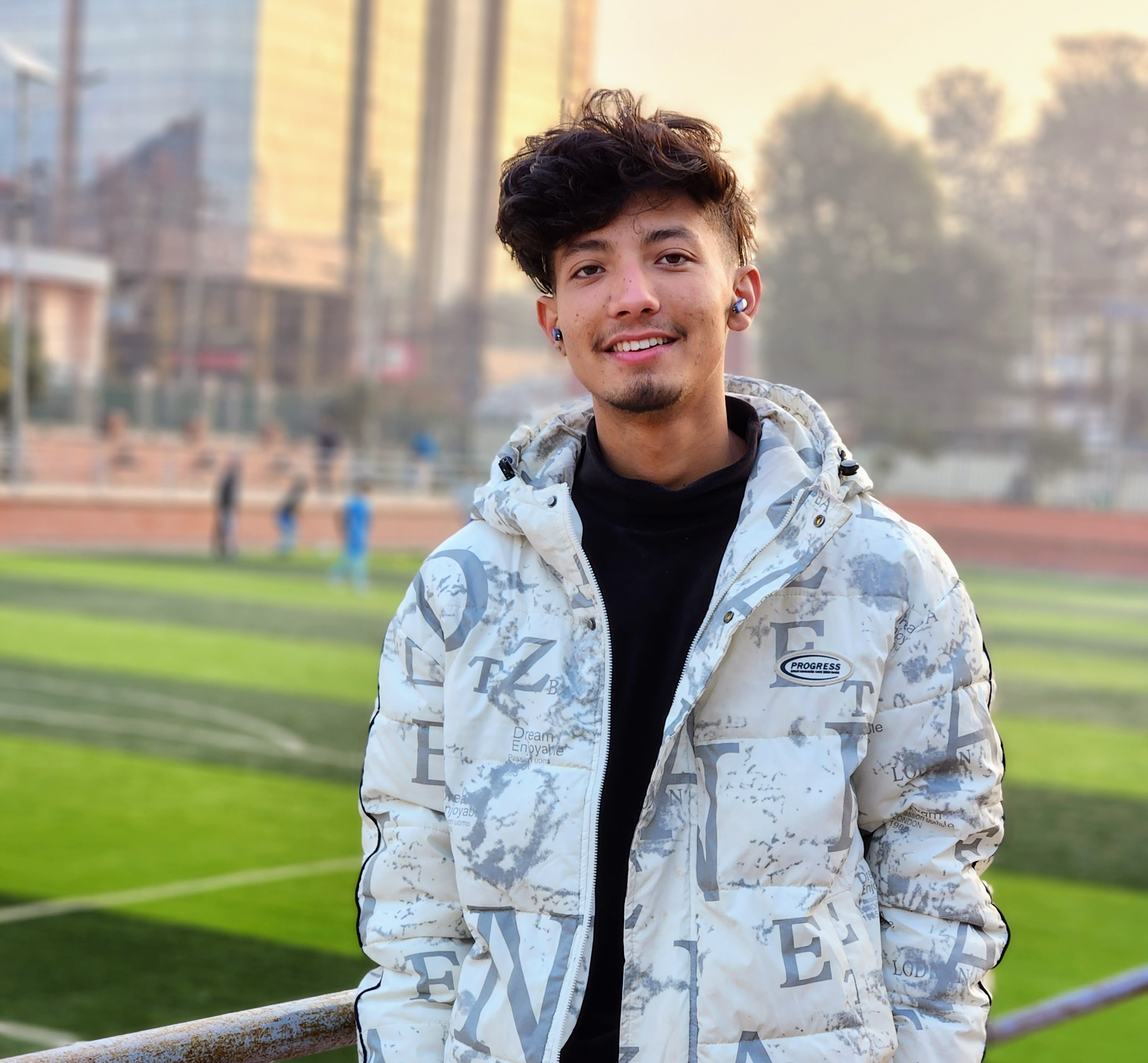
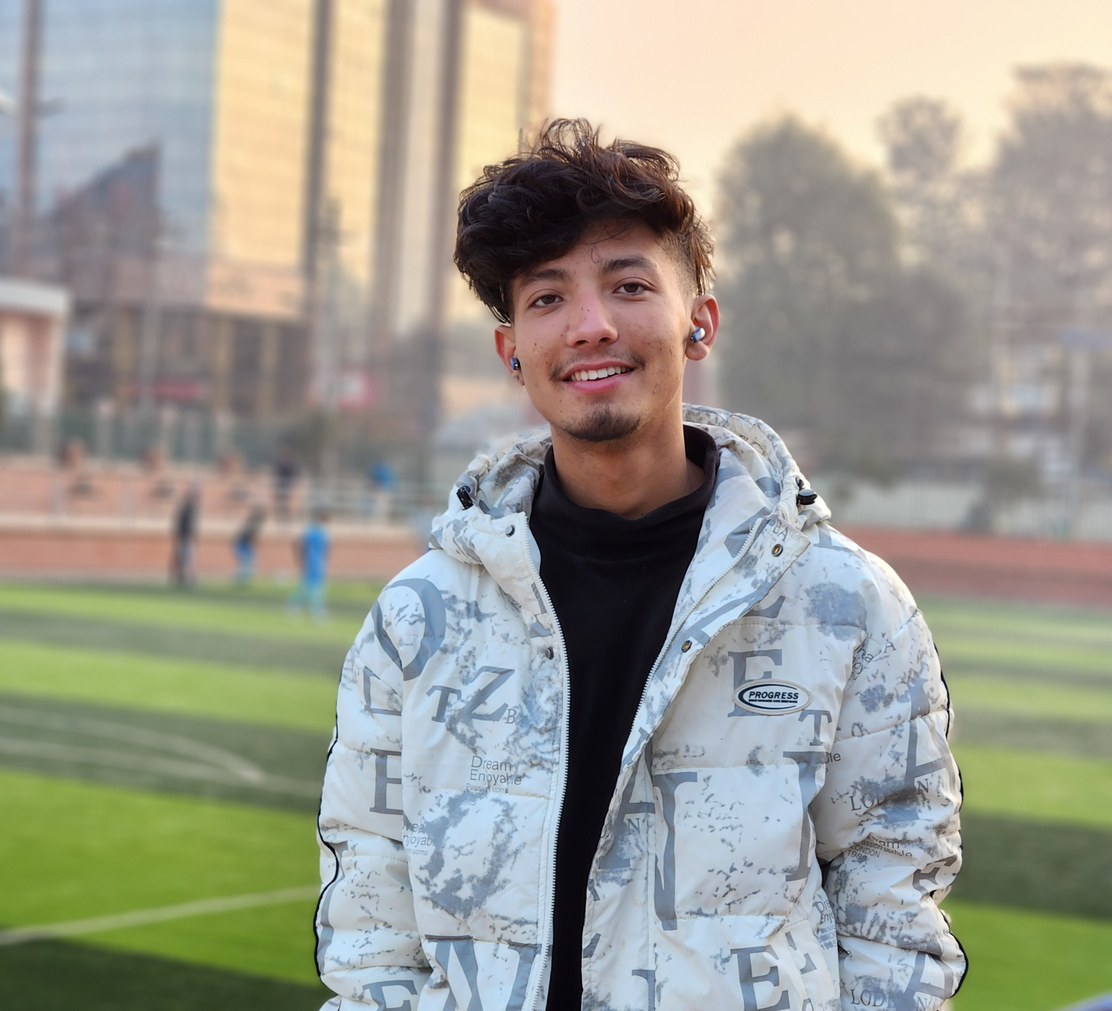
About me page

diff --git a/app/about-me/page.tsx b/app/about-me/page.tsx
@@ -2,29 +2,61 @@
 import './about.css';
 import 'tailwindcss/tailwind.css';
 import React from 'react';
+
 import Image from 'next/image';
 import Link from 'next/link';
 export default function AboutMe() {
     return (
         <div className="container flex items-center w-5/6 mx-auto py-4 px-2 rounded-2xl shadow-xl border border-gray-300 flex-col my-auto mt-14">
-            <div className='border-4 border-gray-500 w-fit h-fit rounded-full overflow-hidden'><Image src={'/about.jpg'} width={150} height={150} alt='about-me-image'></Image></div>
-            <div className='p-2 font-semibold tracking-wide text-3xl border-b-2 border-gray-400 text-orange-600 '>Sudeep Bogati</div>
-            <p className='w-4/5 w-full px-2 py-4 '> Hello, This is Sudeep Bogati,a passionate<span className='border-b font-medium border-orange-600'>Software Engineer </span> from Nepal, passionate about using technology to solve problems and create innovative solutions. I'm skilled in applying my engineering knowledge to design, develop, and maintain software applications. With a strong foundation in TypeScript,NEXT.js, NODE.js , I'm eager to contribute to projects that make a positive impact.</p>
-            <div className="flex gap-4 bg-gray-400 rounded-2xl px-4 py-2 my-4">
-                <Link href={'/'}><svg xmlns="http://www.w3.org/2000/svg" width="16" height="16" fill="currentColor" className="bi bi-github" viewBox="0 0 16 16">
-                    <path d="M8 0C3.58 0 0 3.58 0 8c0 3.54 2.29 6.53 5.47 7.59.4.07.55-.17.55-.38 0-.19-.01-.82-.01-1.49-2.01.37-2.53-.49-2.69-.94-.09-.23-.48-.94-.82-1.13-.28-.15-.68-.52-.01-.53.63-.01 1.08.58 1.23.82.72 1.21 1.87.87 2.33.66.07-.52.28-.87.51-1.07-1.78-.2-3.64-.89-3.64-3.95 0-.87.31-1.59.82-2.15-.08-.2-.36-1.02.08-2.12 0 0 .67-.21 2.2.82.64-.18 1.32-.27 2-.27.68 0 1.36.09 2 .27 1.53-1.04 2.2-.82 2.2-.82.44 1.1.16 1.92.08 2.12.51.56.82 1.27.82 2.15 0 3.07-1.87 3.75-3.65 3.95.29.25.54.73.54 1.48 0 1.07-.01 1.93-.01 2.2 0 .21.15.46.55.38A8.012 8.012 0 0 0 16 8c0-4.42-3.58-8-8-8z"></path>
-                </svg></Link>
-                <a href=""><svg xmlns="http://www.w3.org/2000/svg" width="16" height="16" fill="currentColor" className="bi bi-twitter" viewBox="0 0 16 16">
-                    <path d="M5.026 15c6.038 0 9.341-5.003 9.341-9.334 0-.14 0-.282-.006-.422A6.685 6.685 0 0 0 16 3.542a6.658 6.658 0 0 1-1.889.518 3.301 3.301 0 0 0 1.447-1.817 6.533 6.533 0 0 1-2.087.793A3.286 3.286 0 0 0 7.875 6.03a9.325 9.325 0 0 1-6.767-3.429 3.289 3.289 0 0 0 1.018 4.382A3.323 3.323 0 0 1 .64 6.575v.045a3.288 3.288 0 0 0 2.632 3.218 3.203 3.203 0 0 1-.865.115 3.23 3.23 0 0 1-.614-.057 3.283 3.283 0 0 0 3.067 2.277A6.588 6.588 0 0 1 .78 13.58a6.32 6.32 0 0 1-.78-.045A9.344 9.344 0 0 0 5.026 15z"></path>
-                </svg></a>
-                <a href=""><svg xmlns="http://www.w3.org/2000/svg" width="16" height="16" fill="currentColor" className="bi bi-instagram" viewBox="0 0 16 16">
-                    <path d="M8 0C5.829 0 5.556.01 4.703.048 3.85.088 3.269.222 2.76.42a3.917 3.917 0 0 0-1.417.923A3.927 3.927 0 0 0 .42 2.76C.222 3.268.087 3.85.048 4.7.01 5.555 0 5.827 0 8.001c0 2.172.01 2.444.048 3.297.04.852.174 1.433.372 1.942.205.526.478.972.923 1.417.444.445.89.719 1.416.923.51.198 1.09.333 1.942.372C5.555 15.99 5.827 16 8 16s2.444-.01 3.298-.048c.851-.04 1.434-.174 1.943-.372a3.916 3.916 0 0 0 1.416-.923c.445-.445.718-.891.923-1.417.197-.509.332-1.09.372-1.942C15.99 10.445 16 10.173 16 8s-.01-2.445-.048-3.299c-.04-.851-.175-1.433-.372-1.941a3.926 3.926 0 0 0-.923-1.417A3.911 3.911 0 0 0 13.24.42c-.51-.198-1.092-.333-1.943-.372C10.443.01 10.172 0 7.998 0h.003zm-.717 1.442h.718c2.136 0 2.389.007 3.232.046.78.035 1.204.166 1.486.275.373.145.64.319.92.599.28.28.453.546.598.92.11.281.24.705.275 1.485.039.843.047 1.096.047 3.231s-.008 2.389-.047 3.232c-.035.78-.166 1.203-.275 1.485a2.47 2.47 0 0 1-.599.919c-.28.28-.546.453-.92.598-.28.11-.704.24-1.485.276-.843.038-1.096.047-3.232.047s-2.39-.009-3.233-.047c-.78-.036-1.203-.166-1.485-.276a2.478 2.478 0 0 1-.92-.598 2.48 2.48 0 0 1-.6-.92c-.109-.281-.24-.705-.275-1.485-.038-.843-.046-1.096-.046-3.233 0-2.136.008-2.388.046-3.231.036-.78.166-1.204.276-1.486.145-.373.319-.64.599-.92.28-.28.546-.453.92-.598.282-.11.705-.24 1.485-.276.738-.034 1.024-.044 2.515-.045v.002zm4.988 1.328a.96.96 0 1 0 0 1.92.96.96 0 0 0 0-1.92zm-4.27 1.122a4.109 4.109 0 1 0 0 8.217 4.109 4.109 0 0 0 0-8.217zm0 1.441a2.667 2.667 0 1 1 0 5.334 2.667 2.667 0 0 1 0-5.334z"></path>
-                </svg></a>
-                <a href=""><svg xmlns="http://www.w3.org/2000/svg" width="16" height="16" fill="currentColor" className="bi bi-youtube" viewBox="0 0 16 16">
-                    <path d="M8.051 1.999h.089c.822.003 4.987.033 6.11.335a2.01 2.01 0 0 1 1.415 1.42c.101.38.172.883.22 1.402l.01.104.022.26.008.104c.065.914.073 1.77.074 1.957v.075c-.001.194-.01 1.108-.082 2.06l-.008.105-.009.104c-.05.572-.124 1.14-.235 1.558a2.007 2.007 0 0 1-1.415 1.42c-1.16.312-5.569.334-6.18.335h-.142c-.309 0-1.587-.006-2.927-.052l-.17-.006-.087-.004-.171-.007-.171-.007c-1.11-.049-2.167-.128-2.654-.26a2.007 2.007 0 0 1-1.415-1.419c-.111-.417-.185-.986-.235-1.558L.09 9.82l-.008-.104A31.4 31.4 0 0 1 0 7.68v-.123c.002-.215.01-.958.064-1.778l.007-.103.003-.052.008-.104.022-.26.01-.104c.048-.519.119-1.023.22-1.402a2.007 2.007 0 0 1 1.415-1.42c.487-.13 1.544-.21 2.654-.26l.17-.007.172-.006.086-.003.171-.007A99.788 99.788 0 0 1 7.858 2h.193zM6.4 5.209v4.818l4.157-2.408L6.4 5.209z"></path>
-                </svg></a>
+            <div className='border-4 border-gray-500 w-fit h-fit rounded-full overflow-hidden'><Image src={'/about.jpg'} width={150} height={150} alt='about-me-image' style={{ objectFit: 'cover' }}></Image></div>
+            <div className='pt-2 font-semibold tracking-wide text-3xl border-b-2 border-gray-400 text-orange-600 '>Sudeep Bogati</div>
+            <p className='w-4/5 w-full text-base px-2 py-4 tracking-wide'> Hello, This is Sudeep Bogati,a passionate<span className='border-b font-medium border-orange-600'>Software Engineer </span> from Nepal, passionate about using technology to solve problems and create innovative solutions. I'm skilled in applying my engineering knowledge to design, develop, and maintain software applications. With a strong foundation in TypeScript,NEXT.js, NODE.js , I'm eager to contribute to projects that make a positive impact.</p>
+            <div className="social-buttons">
+                <Link href="https://github.com/sudeepbogati7" className="social-button github">
+                    <svg className="cf-icon-svg" xmlns="http://www.w3.org/2000/svg" viewBox="-2.5 0 19 19"><path d="M9.464 17.178a4.506 4.506 0 0 1-2.013.317 4.29 4.29 0 0 1-2.007-.317.746.746 0 0 1-.277-.587c0-.22-.008-.798-.012-1.567-2.564.557-3.105-1.236-3.105-1.236a2.44 2.44 0 0 0-1.024-1.348c-.836-.572.063-.56.063-.56a1.937 1.937 0 0 1 1.412.95 1.962 1.962 0 0 0 2.682.765 1.971 1.971 0 0 1 .586-1.233c-2.046-.232-4.198-1.023-4.198-4.554a3.566 3.566 0 0 1 .948-2.474 3.313 3.313 0 0 1 .091-2.438s.773-.248 2.534.945a8.727 8.727 0 0 1 4.615 0c1.76-1.193 2.532-.945 2.532-.945a3.31 3.31 0 0 1 .092 2.438 3.562 3.562 0 0 1 .947 2.474c0 3.54-2.155 4.32-4.208 4.548a2.195 2.195 0 0 1 .625 1.706c0 1.232-.011 2.227-.011 2.529a.694.694 0 0 1-.272.587z"></path></svg>
+                </Link>
+                <Link href="https://linkedin.com/in/sudeep-bogati" className="social-button linkedin">
+                    <svg viewBox="0 -2 44 44" version="1.1" xmlns="http://www.w3.org/2000/svg">
+                        <g id="Icons" stroke="none" stroke-width="1">
+                            <g transform="translate(-702.000000, -265.000000)">
+                                <path d="M746,305 L736.2754,305 L736.2754,290.9384 C736.2754,287.257796 734.754233,284.74515 731.409219,284.74515 C728.850659,284.74515 727.427799,286.440738 726.765522,288.074854 C726.517168,288.661395 726.555974,289.478453 726.555974,290.295511 L726.555974,305 L716.921919,305 C716.921919,305 717.046096,280.091247 716.921919,277.827047 L726.555974,277.827047 L726.555974,282.091631 C727.125118,280.226996 730.203669,277.565794 735.116416,277.565794 C741.21143,277.565794 746,281.474355 746,289.890824 L746,305 L746,305 Z M707.17921,274.428187 L707.117121,274.428187 C704.0127,274.428187 702,272.350964 702,269.717936 C702,267.033681 704.072201,265 707.238711,265 C710.402634,265 712.348071,267.028559 712.41016,269.710252 C712.41016,272.34328 710.402634,274.428187 707.17921,274.428187 L707.17921,274.428187 L707.17921,274.428187 Z M703.109831,277.827047 L711.685795,277.827047 L711.685795,305 L703.109831,305 L703.109831,277.827047 L703.109831,277.827047 Z" id="LinkedIn">
+                                </path>
+                            </g>
+                        </g>
+                    </svg>
+                </Link>
+                <Link href="https://facebook.com/" className="social-button facebook">
+                    <svg version="1.1" id="Layer_1" xmlns="http://www.w3.org/2000/svg" viewBox="0 0 310 310">
+                        <g id="XMLID_834_">
+                            <path id="XMLID_835_" d="M81.703,165.106h33.981V305c0,2.762,2.238,5,5,5h57.616c2.762,0,5-2.238,5-5V165.765h39.064
+                            c2.54,0,4.677-1.906,4.967-4.429l5.933-51.502c0.163-1.417-0.286-2.836-1.234-3.899c-0.949-1.064-2.307-1.673-3.732-1.673h-44.996
+                            V71.978c0-9.732,5.24-14.667,15.576-14.667c1.473,0,29.42,0,29.42,0c2.762,0,5-2.239,5-5V5.037c0-2.762-2.238-5-5-5h-40.545
+                            C187.467,0.023,186.832,0,185.896,0c-7.035,0-31.488,1.381-50.804,19.151c-21.402,19.692-18.427,43.27-17.716,47.358v37.752H81.703
+                            c-2.762,0-5,2.238-5,5v50.844C76.703,162.867,78.941,165.106,81.703,165.106z"></path>
+                        </g>
+                    </svg>
+                </Link>
+                <Link href="https://instagram.com/the.sudeep_" className="social-button instagram">
+                    <svg width="800px" height="800px" viewBox="0 0 20 20" version="1.1" xmlns="http://www.w3.org/2000/svg">
+                        <g id="Page-1" stroke="none" stroke-width="1">
+                            <g id="Dribbble-Light-Preview" transform="translate(-340.000000, -7439.000000)">
+                                <g id="icons" transform="translate(56.000000, 160.000000)">
+                                    <path d="M289.869652,7279.12273 C288.241769,7279.19618 286.830805,7279.5942 285.691486,7280.72871 C284.548187,7281.86918 284.155147,7283.28558 284.081514,7284.89653 C284.035742,7285.90201 283.768077,7293.49818 284.544207,7295.49028 C285.067597,7296.83422 286.098457,7297.86749 287.454694,7298.39256 C288.087538,7298.63872 288.809936,7298.80547 289.869652,7298.85411 C298.730467,7299.25511 302.015089,7299.03674 303.400182,7295.49028 C303.645956,7294.859 303.815113,7294.1374 303.86188,7293.08031 C304.26686,7284.19677 303.796207,7282.27117 302.251908,7280.72871 C301.027016,7279.50685 299.5862,7278.67508 289.869652,7279.12273 M289.951245,7297.06748 C288.981083,7297.0238 288.454707,7296.86201 288.103459,7296.72603 C287.219865,7296.3826 286.556174,7295.72155 286.214876,7294.84312 C285.623823,7293.32944 285.819846,7286.14023 285.872583,7284.97693 C285.924325,7283.83745 286.155174,7282.79624 286.959165,7281.99226 C287.954203,7280.99968 289.239792,7280.51332 297.993144,7280.90837 C299.135448,7280.95998 300.179243,7281.19026 300.985224,7281.99226 C301.980262,7282.98483 302.473801,7284.28014 302.071806,7292.99991 C302.028024,7293.96767 301.865833,7294.49274 301.729513,7294.84312 C300.829003,7297.15085 298.757333,7297.47145 289.951245,7297.06748 M298.089663,7283.68956 C298.089663,7284.34665 298.623998,7284.88065 299.283709,7284.88065 C299.943419,7284.88065 300.47875,7284.34665 300.47875,7283.68956 C300.47875,7283.03248 299.943419,7282.49847 299.283709,7282.49847 C298.623998,7282.49847 298.089663,7283.03248 298.089663,7283.68956 M288.862673,7288.98792 C288.862673,7291.80286 291.150266,7294.08479 293.972194,7294.08479 C296.794123,7294.08479 299.081716,7291.80286 299.081716,7288.98792 C299.081716,7286.17298 296.794123,7283.89205 293.972194,7283.89205 C291.150266,7283.89205 288.862673,7286.17298 288.862673,7288.98792 M290.655732,7288.98792 C290.655732,7287.16159 292.140329,7285.67967 293.972194,7285.67967 C295.80406,7285.67967 297.288657,7287.16159 297.288657,7288.98792 C297.288657,7290.81525 295.80406,7292.29716 293.972194,7292.29716 C292.140329,7292.29716 290.655732,7290.81525 290.655732,7288.98792" id="instagram-[#167]">
+
+                                    </path>
+                                </g>
+                            </g>
+                        </g>
+                    </svg>
+                </Link>
             </div>
-            <button>Resume</button>
+            <div className='flex gap-2 mt-4 items-center'>
+                <span className='text-sm '>Reach me:</span>
+                <span className='tracking-widest text-orange-700 text-sm'>hello@sudipbogati.com.np</span>
+            </div>
+
+            <Link href={'/'} className='border border-gray-300 px-4 py-2 mt-6 rounded-lg bg-gray-300 active:border-2 active:bg-orange-200 active:border-orange-700 transition-all duration-300 '>Home</Link>
         </div>
+
     )
 }

diff --git a/app/about-me/about.css b/app/about-me/about.css
@@ -68,3 +68,88 @@
   color: white;
   cursor: pointer;
 }
+
+
+
+.social-buttons {
+  display: flex;
+  justify-content: center;
+  align-items: center;
+  background-color: #f2f2f2;
+  box-shadow: 0px 0px 15px #00000027;
+  padding: 15px 10px;
+  border-radius: 5em;
+}
+
+.social-button {
+  display: flex;
+  justify-content: center;
+  align-items: center;
+  width: 35px;
+  height: 35px;
+  border-radius: 50%;
+  margin: 0 10px;
+  background-color: #fff;
+  box-shadow: 0px 0px 4px #00000027;
+  transition: 0.3s;
+}
+
+.social-button:hover {
+  background-color: #f2f2f2;
+  box-shadow: 0px 0px 6px 3px #00000027;
+}
+
+.social-buttons svg {
+  transition: 0.3s;
+  height: 20px;
+}
+
+.facebook {
+  background-color: #3b5998;
+}
+
+.facebook svg {
+  fill: #f2f2f2;
+}
+
+.facebook:hover svg {
+  fill: #3b5998;
+}
+
+.github {
+  background-color: #333;
+}
+
+.github svg {
+  width: 25px;
+  height: 25px;
+  fill: #f2f2f2;
+}
+
+.github:hover svg {
+  fill: #333;
+}
+
+.linkedin {
+  background-color: #0077b5;
+}
+
+.linkedin svg {
+  fill: #f2f2f2;
+}
+
+.linkedin:hover svg {
+  fill: #0077b5;
+}
+
+.instagram {
+  background-color: #c13584;
+}
+
+.instagram svg {
+  fill: #f2f2f2;
+}
+
+.instagram:hover svg {
+  fill: #c13584;
+}

diff --git a/app/page.tsx b/app/page.tsx
@@ -172,7 +172,7 @@ export function SideBar({ open, setOpen }: any) {
                           <path d="M3 14s-1 0-1-1 1-4 6-4 6 3 6 4-1 1-1 1H3zm5-6a3 3 0 1 0 0-6 3 3 0 0 0 0 6z"></path>
                         </svg>
                       </div>
-                      <div className='pt-2 font-medium text-lg tracking-wide'>Sudeep Bogati</div>
+                      <div className='pt-2 font-bold text-lg tracking-wide'>Sudeep Bogati</div>
                       <span className='text-xs p-1 italic '>hello@sudipbogati.com</span>
                       <div className='text-xs tracking-wide p-2'>Joined on : 13 April, 2024</div>
                     </div>

diff --git a/app/login/login.css b/app/login/login.css
@@ -1,7 +1,7 @@
 /* for all social containers*/
 .socialContainer {
-  width: 35px;
-  height: 35px;
+  width: 30px;
+  height: 30px;
   border-radius: 50%;
   background-color: rgb(44, 44, 44);
   display: flex;
